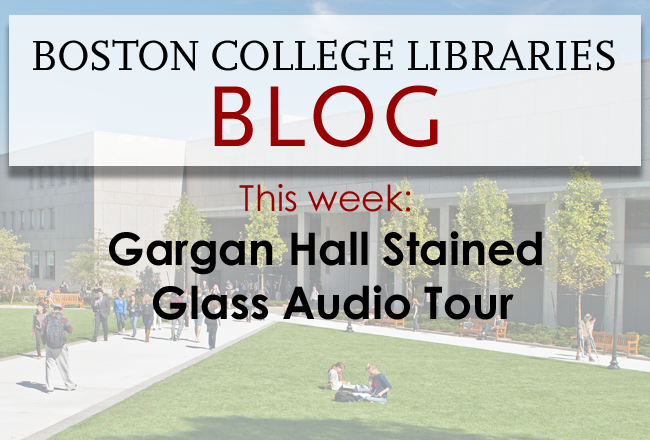
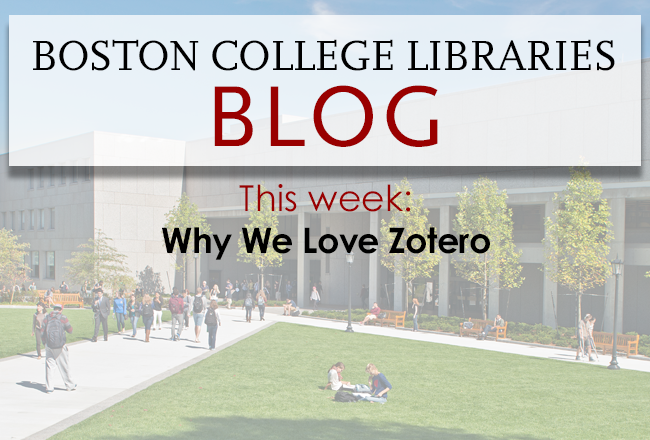
adding news
Applied changes from bc-libraries-site commits f545b8a0, b5536ad3

diff --git a/content/news/2019-09-30-Blog06.md b/content/news/2019-09-30-Blog06.md
@@ -1,13 +1,13 @@
 ---
 title: "Read the new BC Libraries Blog!"
 draft: false
-expired: true
-date: 2019-09-23T11:14:13-04:00
+expired: false
+date: 2019-09-30T15:19:56-04:00
 year: "2019"
-slug: "bcblog-print-power"
-destination: "https://library.bc.edu/newsletter/?p=949"
-imagethumb: "2019-09/blog-news05.png"
-imagealt: "Print Power! Debuts in the O’Neill Library Level 1 Gallery"
+slug: "bcblog-zotero-f19"
+destination: "https://library.bc.edu/newsletter/"
+imagethumb: "2019-09/blog-news04.png"
+imagealt: "Why We Love Zotero"
 type: "news"
 ---
 

diff --git a/content/news/2019-09-03-FacPubFong.md b/content/news/2019-09-03-FacPubFong.md
@@ -2,7 +2,7 @@
 title: "Faculty Publication Highlight: Rowena Fong, James Lubben, & Richard Barth"
 draft: false
 expired: false
-date: 2019-09-03T16:52:08-04:00
+date: 2019-09-10T16:52:08-04:00
 year: "2019"
 slug: "facpub-fong"
 destination: "https://library.bc.edu/facpub/2019/Jul/grand-challenges/"
